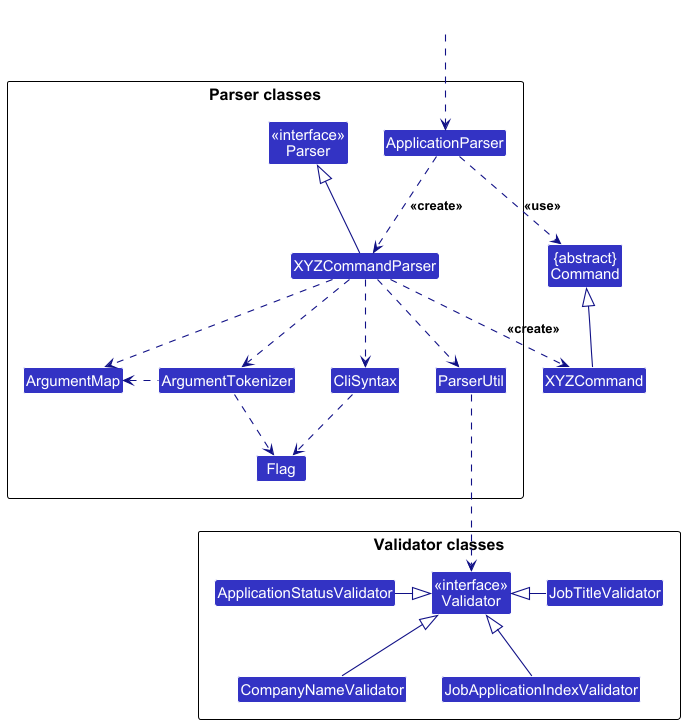
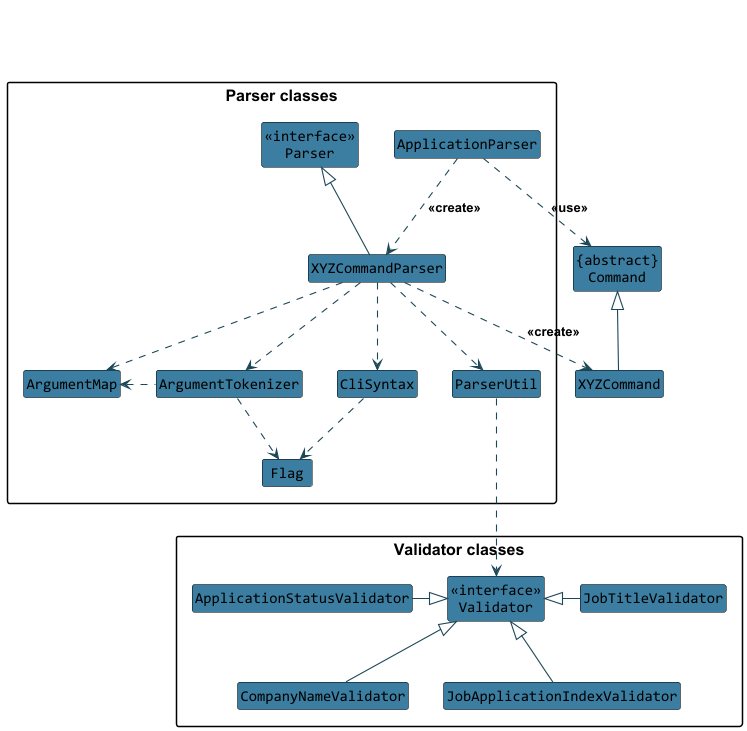
update style.puml for monokai light color scheme

diff --git a/docs/DeveloperGuide.md b/docs/DeveloperGuide.md
@@ -103,7 +103,7 @@ The sections below give more details of each component.
 The **API** of this component is specified in [`UiMain.java`](https://github.com/AY2425S2-CS2113-T11a-2/tp/blob/master/src/main/java/seedu/logjob/ui/UiMain.java)
 
 Here is a class diagram of the UI component, not all methods and attributes are included to reduce the complexity.
-![UML Diagram](diagrams/class-diagrams/UI.png)
+![UML Diagram](diagrams/class-diagrams/UIClassDiagram.png)
 
 The UI consists of a `UiMain` that handles the direct interactions between the user and the program logic.
 
